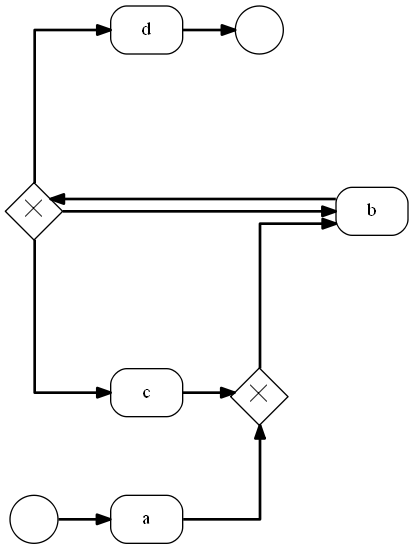
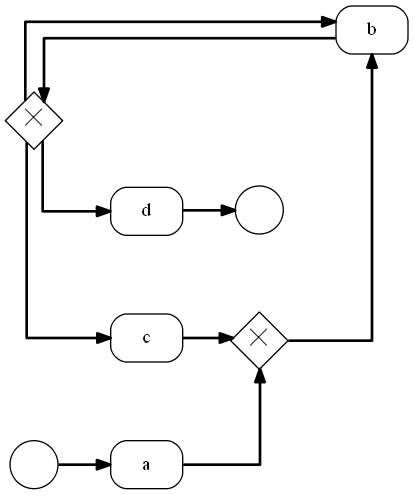
update

diff --git a/src/menu.py b/src/menu.py
@@ -41,11 +41,20 @@ class StartMenu:
 
 
     def run_alpha(self):
-        opened_file = deepcopy(self.opened_file)
+        log = []
+        log_row = []
+        for rows in self.text.get(1.0, END):
+            if rows == '\n':
+                if log_row != []:
+                    log.append(log_row)
+                log_row = []
+            if rows.isalpha():
+                log_row.append(rows)
+        #opened_file = deepcopy(self.opened_file)
         if self.radio_v.get() == 2:
-            self.alpha = Alpha(opened_file, splines='node')
+            self.alpha = Alpha(log, splines='node')
         else:
-            self.alpha = Alpha(opened_file)
+            self.alpha = Alpha(log)
         print(self.alpha)
         print("direct succesor:", self.alpha.ds)
         print("causality:",self.alpha.cs)
@@ -58,11 +67,22 @@ class StartMenu:
 
     
     def run_alpha_plus(self):
-        opened_file = deepcopy(self.opened_file)
+        log = []
+        log_row = []
+        for rows in self.text.get(1.0, END):
+            if rows == '\n':
+                if log_row != []:
+                    log.append(log_row)
+                log_row = []
+            if rows.isalpha():
+                log_row.append(rows)
+            
+        #print("tu:", log)
+        #opened_file = deepcopy(self.opened_file)
         if self.radio_v.get()  == 2:
-            self.alpha_plus = AlphaPlus(opened_file, splines='node')
+            self.alpha_plus = AlphaPlus(log, splines='node')
         else:
-            self.alpha_plus = AlphaPlus(opened_file)
+            self.alpha_plus = AlphaPlus(log)
 
         print(self.alpha_plus)
         print("causality: ", self.alpha_plus.cs)
@@ -81,11 +101,13 @@ class StartMenu:
         self.alpha_plus.run_alpha()
         self.alpha_plus.run_alpha_plus(self.graph_name)
         self.show_graph()
+
+
+        #print("tuuuuuutaj: ", self.text.get(1.0, END))
         
 
     def create_menubar(self):
         self.menubar.add_cascade(label="File", menu=self.filemenu)
-        self.menubar.add_cascade(label="Edit", menu=self.editmenu)
         self.menubar.add_cascade(label="Run", menu=self.runmenu)
         self.menubar.add_cascade(label="Help", menu=self.helpmenu)
         
@@ -96,15 +118,6 @@ class StartMenu:
         #self.filemenu.add_command(label="Close", command=self.donothing)
         self.filemenu.add_separator()
         self.filemenu.add_command(label="Exit", command=self.root.quit)
-
-    def create_edit_menu(self):
-        self.editmenu.add_command(label="Undo", command=self.donothing)
-        self.editmenu.add_separator()
-        self.editmenu.add_command(label="Cut", command=self.donothing)
-        self.editmenu.add_command(label="Copy", command=self.donothing)
-        self.editmenu.add_command(label="Paste", command=self.donothing)
-        self.editmenu.add_command(label="Delete", command=self.donothing)
-        self.editmenu.add_command(label="Select All", command=self.donothing)
     
     def create_run_menu(self):
         self.runmenu.add_command(label="Run alpha miner", command=self.run_alpha)
@@ -121,13 +134,17 @@ class StartMenu:
         generated graph as pdf file.""")
         
     def show_graph(self):
-        '''packs = self.root.pack_slaves()
+        packs = self.root.pack_slaves()
         for l in packs:
-            l.destroy()'''
-        new_window = Toplevel(self.root)
+            if str(l) != '.!label' and str(l) != '.!label3' and '.!text' not in str(l):
+                l.destroy()
+        '''new_window = Toplevel(self.root)
         new_window.title('BPMN graph')
         self.im = PhotoImage(file='../graphs/' + self.graph_name + '.png')
         self.label = Label(new_window, image=self.im)
+        self.label.pack()'''
+        self.im = PhotoImage(file='../graphs/' + self.graph_name + '.png')
+        self.label = Label(image=self.im)
         self.label.pack()
 
     def save_graph_as_pdf(self):
@@ -138,20 +155,22 @@ class StartMenu:
         print(self.radio_v.get())
 
     def add_radio_buttons(self):
-        Label(self.root, 
+        l1 = Label(self.root, 
                 text='Log:',
                 justify = LEFT,
                 padx = 20,
-                relief='solid').pack()
+                relief='solid')
+        l1.pack()
+        l1.place(x=0, y=100)
         self.radio_v = IntVar()
-        l = Label(self.root, 
+        l2 = Label(self.root, 
                 text='Choose graph type',
                 justify = LEFT,
                 padx = 20,
                 relief='solid',
                 anchor=SW)
-        l.pack()
-        l.place(x=0,y=0)
+        l2.pack()
+        l2.place(x=0,y=0)
         self.r1 = Radiobutton(self.root, 
                 text="Ortho",
                 padx = 20, 
@@ -174,19 +193,30 @@ class StartMenu:
     def show_log(self):
         packs = self.root.pack_slaves()
         for l in packs:
+            print(l)
             if str(l) != '.!label':
                 l.destroy()
+        log_height = 0
         log = ''
         for row in self.opened_file:
             for task in row:
                 log += ' ' + (task)
             log += '\n'
+            log_height += 1
 
-        Label(self.root, 
+        '''Label(self.root, 
                 text=log,
                 justify = LEFT,
                 padx = 20,
-                relief='solid').pack()
+                relief='solid').pack()'''
+        try:
+            self.text.delete(1.0, END)
+        except:
+            pass
+        self.text = Text(self.root, height=log_height+1, width=30)
+        self.text.pack()
+        self.text.place(x=0,y=125)
+        self.text.insert(END, log)
 
     def show_menu(self):
         self.root.config(menu=self.menubar)
